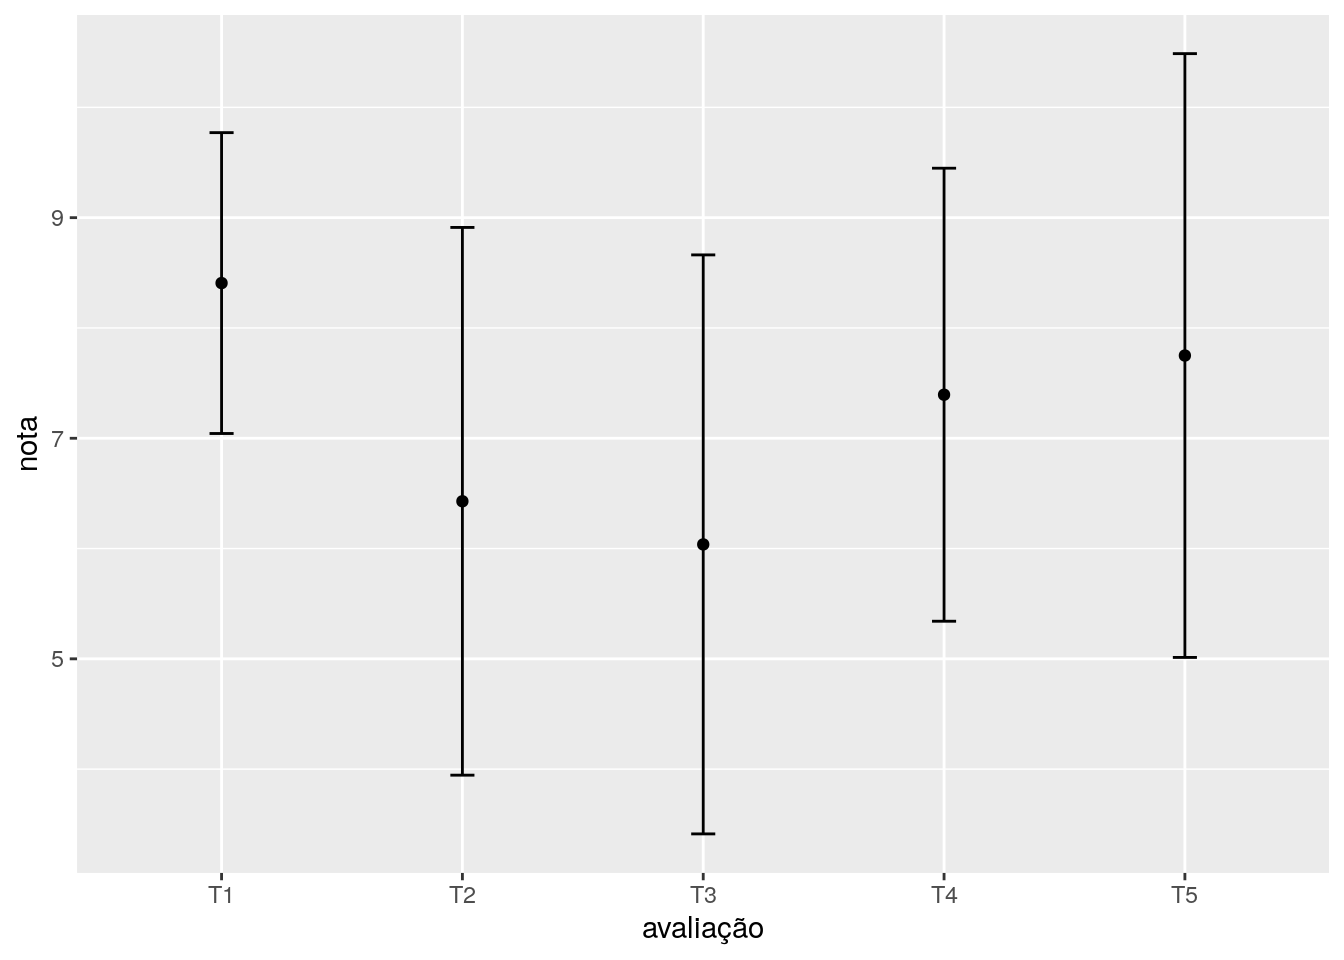
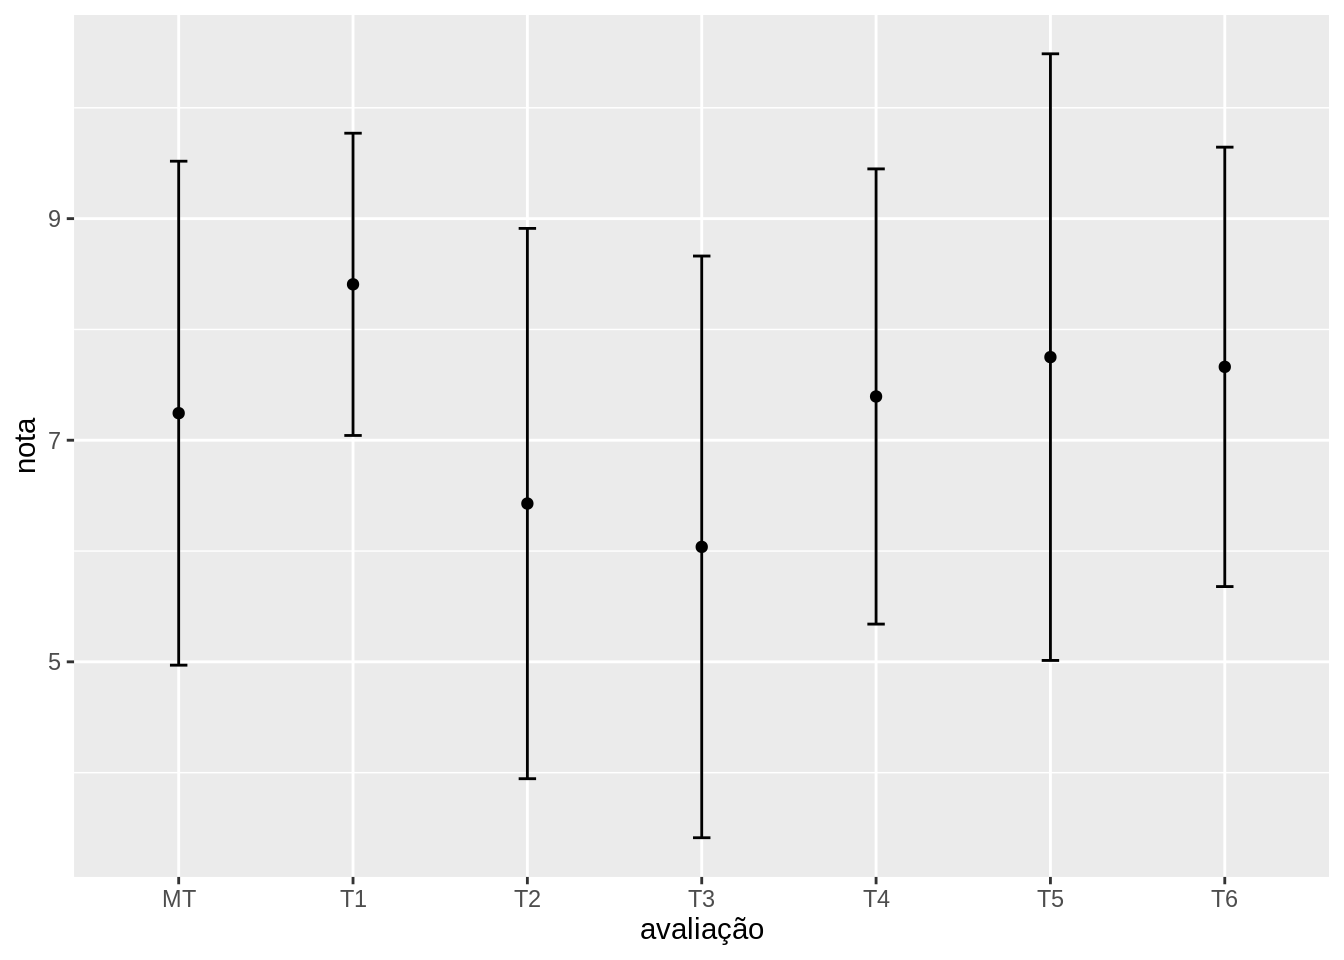
2019_1_each: lista de revisão

diff --git a/content/classes/2019_1_each/revisao.html b/content/classes/2019_1_each/revisao.html
@@ -1,0 +1,89 @@
+---
+title: "Lista de revisão"
+author: "Rafael Izbicki e Rafael Bassi Stern"
+date: ''
+bibliography: ipaee.bib
+output: html_document
+---
+
+<script src="/rmarkdown-libs/htmlwidgets/htmlwidgets.js"></script>
+<script src="/rmarkdown-libs/jquery/jquery.min.js"></script>
+<link href="/rmarkdown-libs/datatables-css/datatables-crosstalk.css" rel="stylesheet" />
+<script src="/rmarkdown-libs/datatables-binding/datatables.js"></script>
+<link href="/rmarkdown-libs/dt-core/css/jquery.dataTables.min.css" rel="stylesheet" />
+<link href="/rmarkdown-libs/dt-core/css/jquery.dataTables.extra.css" rel="stylesheet" />
+<script src="/rmarkdown-libs/dt-core/js/jquery.dataTables.min.js"></script>
+<link href="/rmarkdown-libs/crosstalk/css/crosstalk.css" rel="stylesheet" />
+<script src="/rmarkdown-libs/crosstalk/js/crosstalk.min.js"></script>
+
+
+<div id="lista-de-exercicios" class="section level1">
+<h1>Lista de exercícios</h1>
+<ol style="list-style-type: decimal">
+<li>Uma pesquisadora desenvolveu um medicamento para
+transtorno de déficit de atenção. Para testar este
+medicamento, ela deve comparar a sua efetividade
+a um outro que já é comercializado.
+Para tal, coletou uma amostra de <span class="math inline">\(50\)</span>
+indivíduos com déficit de atenção, sendo que
+<span class="math inline">\(25\)</span> destes eram casos graves e
+<span class="math inline">\(25\)</span> eram casos leves.
+Por considerações éticas, a pesquisadora aplicou
+o novo medicamento aos <span class="math inline">\(25\)</span> pacientes com caso grave e
+o medicamento antigo aos <span class="math inline">\(25\)</span> pacientes com caso leve.</li>
+</ol>
+<ol style="list-style-type: lower-alpha">
+<li><p>Analise o planejamento deste experimento
+à luz dos conceitos de validade e eficácia.</p></li>
+<li><p>Após realizar o experimento, a pesquisadora
+observou que os pacientes tratados com
+o medicamento novo em média tinham maior
+dificuldade de prestar atenção do que
+os pacientes tratados com o medicamento antigo.
+Esta observação é evidência de que
+o medicamento antigo é mais efetivo? Por quê?</p></li>
+</ol>
+<ol start="2" style="list-style-type: decimal">
+<li>Uma pesquisadora desenvolveu um medicamento com
+o intuito de reduzir a concentração de
+uma determinada substância no sangue.
+Para testar a efetividade deste medicamento,
+mediu a concentração da substância no sangue
+de <span class="math inline">\(9\)</span> indivíduos antes e depois de tomar o medicamento.
+Observou:</li>
+</ol>
+<div id="htmlwidget-1" style="width:100%;height:auto;" class="datatables html-widget"></div>
+<script type="application/json" data-for="htmlwidget-1">{"x":{"filter":"none","data":[[10.4,10.6,11.8,9.1,8.8,9.1,9.9,10.3,11.4],[10.4,9.3,13.3,8,7.8,8.2,10,9.7,11.6]],"container":"<table class=\"display\">\n  <thead>\n    <tr>\n      <th>antes<\/th>\n      <th>depois<\/th>\n    <\/tr>\n  <\/thead>\n<\/table>","options":{"dom":"t","columnDefs":[{"className":"dt-right","targets":[0,1]}],"order":[],"autoWidth":false,"orderClasses":false}},"evals":[],"jsHooks":[]}</script>
+<ol style="list-style-type: lower-alpha">
+<li><p>Indique as unidades amostrais, a população e
+as variáveis estudadas.</p></li>
+<li><p>Calcule uma medida de centralidade e
+uma medida de dispersão para cada uma das
+variáveis observadas.</p></li>
+<li><p>Construa um boxplot para cada uma
+das variáveis observadas.
+Por inspeção visual, parece haver
+diferença entre as variáveis?</p></li>
+<li><p>Qual hipótese a pesquisadora
+deve testar? Interprete o erro
+tipo I e o erro tipo II desta hipótese.</p></li>
+<li><p>Teste a hipótese acima,
+interprete o resultado e
+compare-o com sua resposta para o item c.</p></li>
+</ol>
+<ol start="3" style="list-style-type: decimal">
+<li>Ao testar a hipótese de que
+a água de um rio é imprópria para consumo,
+um pesquisador encontrou um p-valor de 0.001.</li>
+</ol>
+<ol style="list-style-type: lower-alpha">
+<li><p>Qual o significado do p-valor?</p></li>
+<li><p>Se o pesquisador deseja controlar
+a probabilidade de erro tipo I em 0.05,
+ele rejeitará a hipótese nula?</p></li>
+<li><p>Por que em um artigo científico é
+mais conveniente comunicar o p-valor do
+que comunicar diretamente se
+a hipótese foi rejeitada ou não?</p></li>
+</ol>
+</div>

diff --git a/content/classes/2019_1_each/grades.html b/content/classes/2019_1_each/grades.html
@@ -29,7 +29,7 @@ código de ética desta disciplina e você está reprovado.</p></li>
 <div id="notas" class="section level3">
 <h3>Notas</h3>
 <div id="htmlwidget-1" style="width:100%;height:auto;" class="datatables html-widget"></div>
-<script type="application/json" data-for="htmlwidget-1">{"x":{"filter":"none","data":[[31,69,83,102,116,146,170,181,199,212,239,266,302,318,331,334,339,350,368,374,378,379,561,718,829,2114,2129,5348,5430,5884,5889,7954,9576,9628,9752,9780,9804,9844,9846,9859,9868,9875,9880,9885,9896,9981],[8,8,0,6.5,7,9,4.5,8,9,9,9.5,9,9.5,9,9,9,8,9,9,9,0,9,9,9,7.5,9.5,9.5,9,9,8,6,6,6,0,9,8.5,9,9,9.5,9,9.5,10,9.5,9.5,8.5,4],[6,10,0,5.5,3,10,7,10,7,8,2,7,10,7,8,7,2,4,5,9,0,5,6.5,6,10,10,9,7,7,3,5,2,2,0,3,4,4,7,6,7,7,10,8,7,7,0],[2,5,0,0,5,6.5,10,8,4,6,3.5,5,2,4,7,6,8,5,10,7,0,10,6,5,10,10,6.5,5,6,0,7,1,2,null,5.5,1,5.5,10,8,9.5,5.5,10,3,5,6,0],[2.5,7.5,0,0,7.5,10,9,10,7.5,10,10,10,6.5,7.5,8.5,5,5,9,7.5,7.5,0,5,5,10,6,5,5,8.5,7.5,0,6.5,0,0,0,5,5,8.5,5,7.5,10,7.5,8.5,10,5,10,0],[7,1,0,0,9.5,10,3,5.5,8,10,10,10,10,0,8.5,8.5,7,7,5,10,0,9.5,2.5,7.5,8,10,10,9.5,9,0,0,0,1,0,2,0,9.5,7,9,10,8.5,10,10,8,8,0]],"container":"<table class=\"display\">\n  <thead>\n    <tr>\n      <th>RA<\/th>\n      <th>T1<\/th>\n      <th>T2<\/th>\n      <th>T3<\/th>\n      <th>T4<\/th>\n      <th>T5<\/th>\n    <\/tr>\n  <\/thead>\n<\/table>","options":{"dom":"ftip","columnDefs":[{"className":"dt-right","targets":[0,1,2,3,4,5]}],"order":[],"autoWidth":false,"orderClasses":false}},"evals":[],"jsHooks":[]}</script>
+<script type="application/json" data-for="htmlwidget-1">{"x":{"filter":"none","data":[[31,69,83,102,116,146,170,181,199,212,239,266,302,318,331,334,339,350,368,374,378,379,561,718,829,2114,2129,5348,5430,5884,5889,7954,9576,9628,9752,9780,9804,9844,9846,9859,9868,9875,9880,9885,9896,9981],[8,8,0,6.5,7,9,4.5,8,9,9,9.5,9,9.5,9,9,9,8,9,9,9,0,9,9,9,7.5,9.5,9.5,9,9,8,6,6,6,0,9,8.5,9,9,9.5,9,9.5,10,9.5,9.5,8.5,4],[6,10,0,5.5,3,10,7,10,7,8,2,7,10,7,8,7,2,4,5,9,0,5,6.5,6,10,10,9,7,7,3,5,2,2,0,3,4,4,7,6,7,7,10,8,7,7,0],[2,5,0,0,5,6.5,10,8,4,6,3.5,5,2,4,7,6,8,5,10,7,0,10,6,5,10,10,6.5,5,6,0,7,1,2,0,5.5,1,5.5,10,8,9.5,5.5,10,3,5,6,0],[2.5,7.5,0,0,7.5,10,9,10,7.5,10,10,10,6.5,7.5,8.5,5,5,9,7.5,7.5,0,5,5,10,6,5,5,8.5,7.5,0,6.5,0,0,0,5,5,8.5,5,7.5,10,7.5,8.5,10,5,10,0],[7,1,0,0,9.5,10,3,5.5,8,10,10,10,10,0,8.5,8.5,7,7,5,10,0,9.5,2.5,7.5,8,10,10,9.5,9,0,0,0,1,0,2,0,9.5,7,9,10,8.5,10,10,8,8,0],[7.5,7,0,0,8.5,9,4.5,8,8,7,8.5,7.5,0,10,8,7,9,8.5,6,9.5,0,9.5,3.5,7,5.5,9.5,10,6,6,0,8.5,1,0,0,7,0,5,8.5,8,10,9,10,10,8.5,7.5,0],[6.2,7.5,0,2.4,7.5,9.6,7,8.8,7.9,8.8,8.3,8.7,7.6,7.5,8.4,7.5,7.4,7.7,7.5,9,0,8.6,6,7.9,8.3,9.8,9,8,7.7,2.2,6.6,2,2.2,0,5.9,3.7,7.5,8.3,8.4,9.7,8.3,10,9.5,7.6,8.2,0.8]],"container":"<table class=\"display\">\n  <thead>\n    <tr>\n      <th>RA<\/th>\n      <th>T1<\/th>\n      <th>T2<\/th>\n      <th>T3<\/th>\n      <th>T4<\/th>\n      <th>T5<\/th>\n      <th>T6<\/th>\n      <th>MT<\/th>\n    <\/tr>\n  <\/thead>\n<\/table>","options":{"dom":"ftip","columnDefs":[{"className":"dt-right","targets":[0,1,2,3,4,5,6,7]}],"order":[],"autoWidth":false,"orderClasses":false}},"evals":[],"jsHooks":[]}</script>
 </div>
 <div id="graficos" class="section level3">
 <h3>Gráficos</h3>

diff --git a/content/classes/2019_1_each.html b/content/classes/2019_1_each.html
@@ -10,6 +10,7 @@ subtitle: "1o semestre de 2019"
 <ul>
 <li><p><a href="./syllabus/" target="_blank"><strong>Programa do curso</strong></a></p></li>
 <li><p><a href="./grades/" target="_blank"><strong>Notas em avaliações</strong></a></p></li>
+<li><p><a href="./revisao/" target="_blank"><strong>Revisão</strong></a></p></li>
 </ul>
 </div>
 <div id="notas-de-aula" class="section level3">
